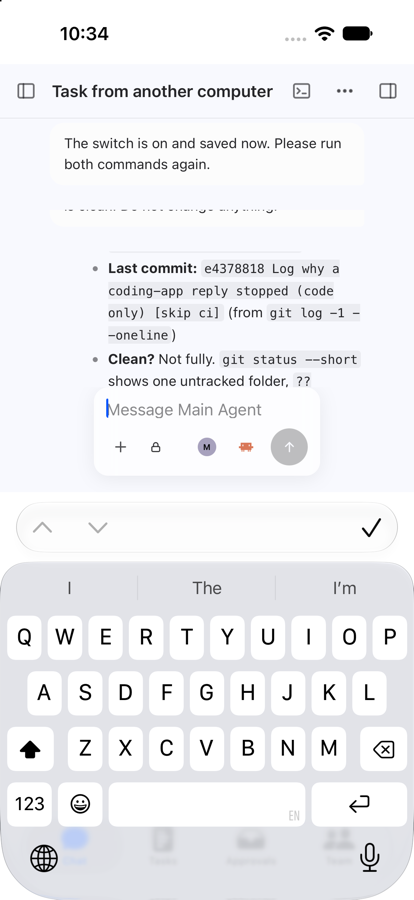
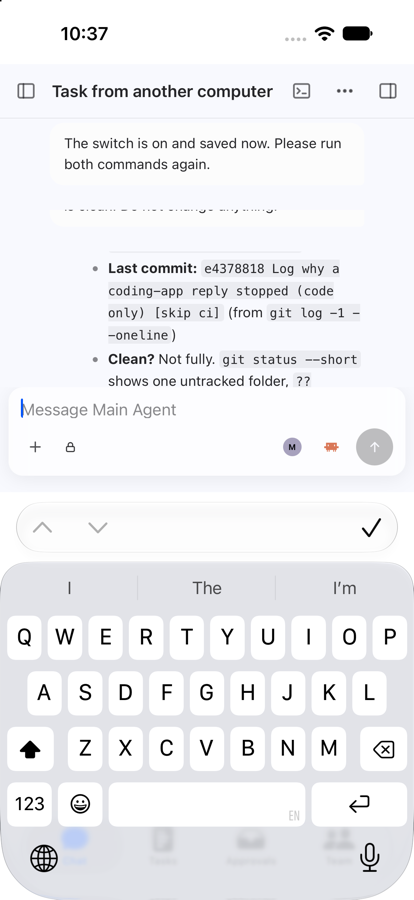
Retest the phone chat fit at e1d207fb on the simulator [skip ci]

diff --git a/docs/handoff/RESULT.md b/docs/handoff/RESULT.md
@@ -363,16 +363,19 @@ under the QR, for a phone without a camera. Today the QR holds a 368-character
 `PHONE_FEATURES.md` §5 (protocol change, owner's OK first). It is not the
 6-digit check code, which only confirms the phone.
 
-## Test: phone chat fit (74c321ed)
+## Test: phone chat fit (e1d207fb)
 
-PR Dpro-at/Girru#197 "Fit the chat page to the phone", branch `phone/chat-fit`
-at `74c321ed`. The chat page comes from the computer, so the main Mac ran the
-MacBook's Girru from a local merge of `computers/simplify` and `phone/chat-fit`
-(same profile and data). The iPhone app is unchanged: same simulator build,
-still paired with the owner's real Girru. iPhone 18 Pro simulator, iOS 27.2,
-402 pt wide. Screenshots `result/fit-*.png`; sizes measured in the page.
+PR Dpro-at/Girru#197 "Fit the chat page to the phone", branch `phone/chat-fit`.
+First tested at `74c321ed`, then again at the new head `e1d207fb`
+(styles.css and a test). The chat page comes from the computer, so the main
+Mac ran the MacBook's Girru from a local merge of `computers/simplify` and
+`phone/chat-fit` (`515a767e`, same profile and data), rebuilt core-ui and
+restarted it; the app was reopened so the page loaded the new build. The
+iPhone app is unchanged: same simulator build, still paired with the owner's
+real Girru. iPhone 18 Pro simulator, iOS 27.2, 402 pt wide. Screenshots
+`result/fit-*.png` are all from `e1d207fb`; sizes were measured in the page.
 
-**Fixed (checked on the owner's real chats):**
+**Works (checked on the owner's real chats):**
 
 - The page is exactly 402 px wide; the conversation is full width
   (`.chat-thread` 402×574) and the messages are readable (`fit-01`).
@@ -381,16 +384,18 @@ still paired with the owner's real Girru. iPhone 18 Pro simulator, iOS 27.2,
 - The left drawer (chat list) is closed at start, opens over a dimmed chat
   with the owner's projects and chats, and closes on a tap outside (`fit-02`).
   The owner: "the left side bar is good".
+- New in `e1d207fb`: the composer is full width (386 of 402 px, textarea
+  362 px; it was 220 px at `74c321ed`).
 - With the keyboard up nothing slides sideways (scroll width 402, scroll 0);
   the composer sits above the keyboard with Send visible (`fit-07`).
-- Back from the terminal page returns to the same chat (10 messages, full
-  width, `fit-06`).
 - The meetings and specialties errors are gone (the only alerts left are the
   chat's own "The model did not answer" messages).
-- The terminal opens as its own page after Face ID ("Open the terminal" in
-  the system log).
+- The terminal is its own page after Face ID ("Open the terminal" in the
+  system log) and now starts on the restarted Girru: `echo hi; date` gives the
+  real output (`fit-05`). Back returns to the same chat (10 messages, full
+  width, `fit-06`).
 
-**Findings:**
+**Findings (still open at `e1d207fb`):**
 
 1. **The right drawer cannot be used or scrolled** (`fit-04`; the owner saw it
    too). `.chat-details` is `position: fixed; z-index: 12`, while
@@ -400,19 +405,17 @@ still paired with the owner's real Girru. iPhone 18 Pro simulator, iOS 27.2,
    `overflow-y: auto`) never scrolls. The drawer must sit above the scrim.
 2. **Text sizes are mixed and mostly desktop-small** (the owner: "some things
    small, some big"): message text 13.5 px, code 12.15 px, the task card in the
-   chat 12–12.5 px with details at 10.4 px, while the composer writes at 16 px.
-   Phone body text should be about 16–17 px.
-3. **The composer is narrow:** 220 px of 402 (textarea 196 px). The column
-   also keeps 48 px margins on both sides (306 px), and assistant text starts
-   at x 88, so a reply line is only 266 px wide. The owner: "the chat box is
-   very small".
-4. **The terminal does not start on this Girru:** after Face ID the page shows
-   "The terminal could not start", and "Start again" leaves an empty screen
-   (no prompt). Probably the terminal is not switched on in the Girru the main
-   Mac restarted (`AGENT_TERMINAL=true`); please check before judging the page.
-5. When Face ID for the terminal is cancelled, the page still switches to the
-   terminal page with "The terminal could not start" (`fit-03`). No shell
-   opens, but after a cancel it should stay in the chat.
+   chat 12–12.5 px with details at 10.4 px, meta lines 12.5 px, while the
+   composer writes at 16 px. Phone body text should be about 16–17 px.
+3. **The conversation keeps desktop margins:** the column is 306 px with 48 px
+   on both sides, and assistant text starts at x 88, so a reply line is only
+   266 px wide.
+4. **^C on the key row still does not stop `sleep 30`** (round 2 finding 1;
+   not part of this PR).
+5. Seen at `74c321ed`, not retested: when Face ID for the terminal is
+   cancelled, the page still switches to the terminal page with "The terminal
+   could not start". No shell opens, but after a cancel it should stay in the
+   chat.
 
 **Not tested:** dark mode of the new layout, sending a message (not to start
-the owner's agents), the terminal key row (needs a working terminal).
+the owner's agents).
